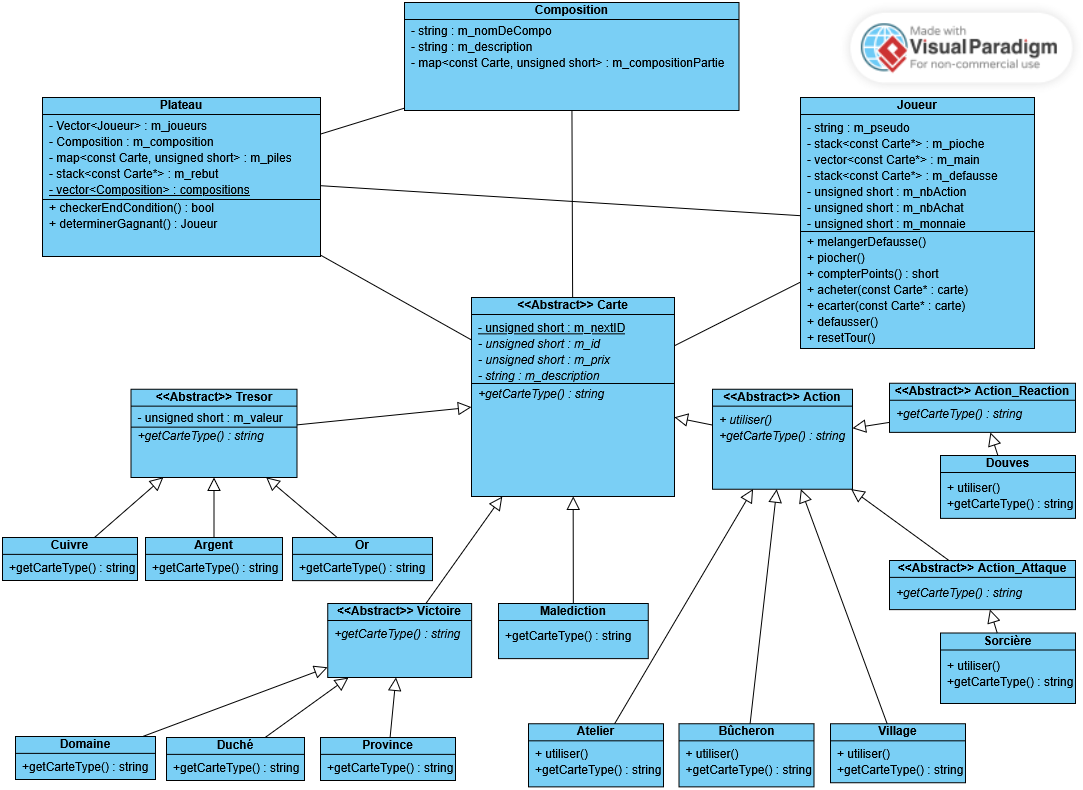
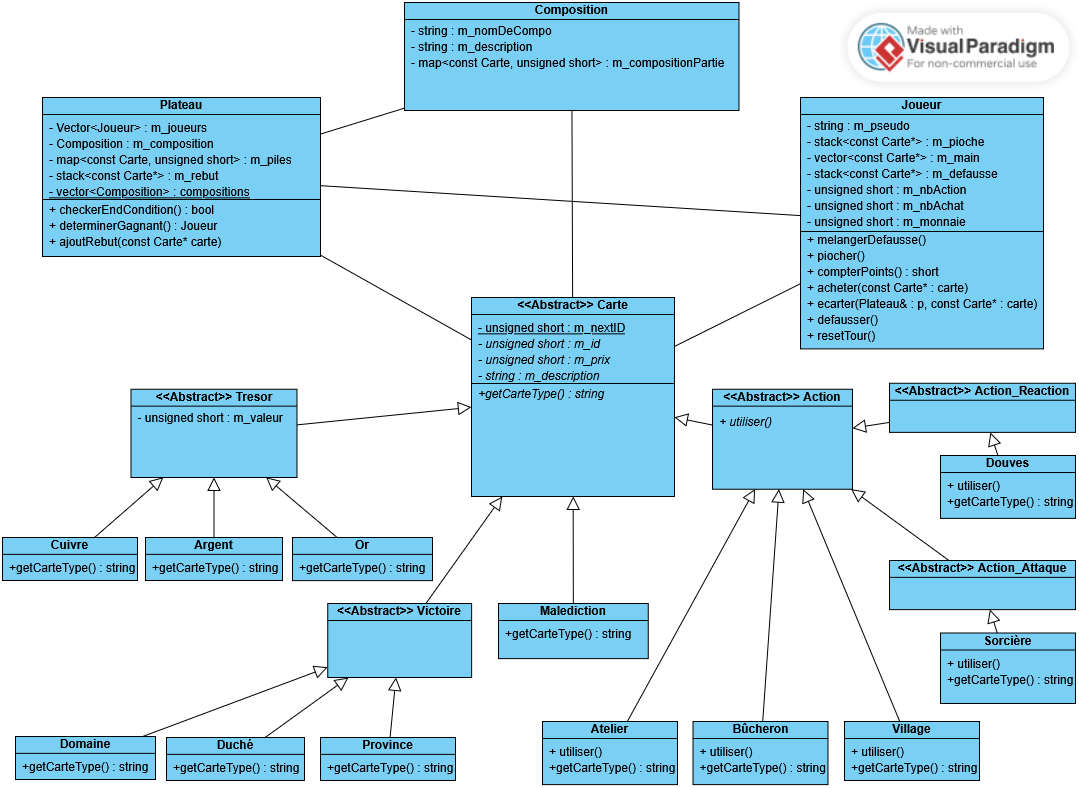
Update Carte class to include virtual getCarteType method

diff --git a/include/carte.hpp b/include/carte.hpp
@@ -14,4 +14,6 @@ class Carte {
         Carte(unsigned short prix, std::string description);
         ~Carte();
 
+        virtual std::string getCarteType() const = 0;
+
 };
